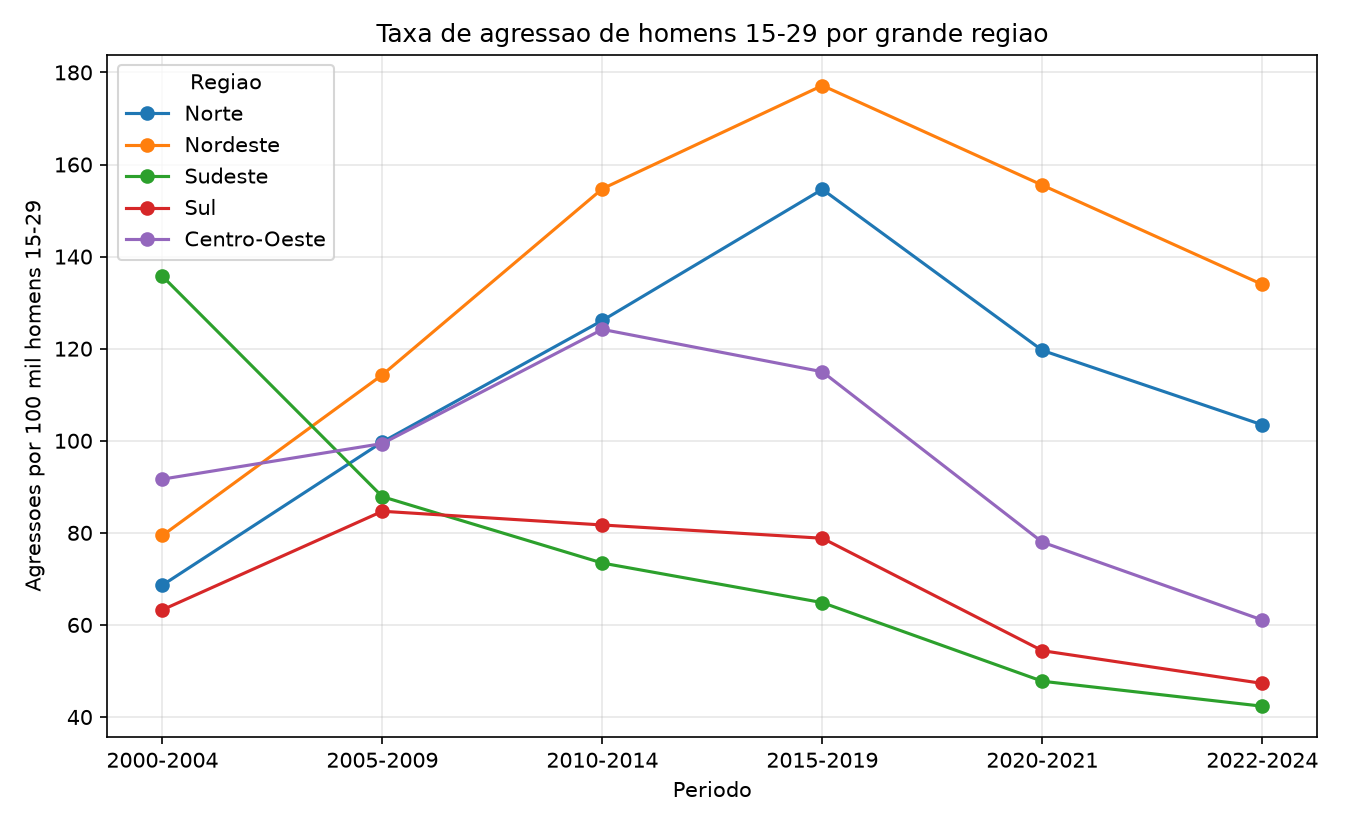
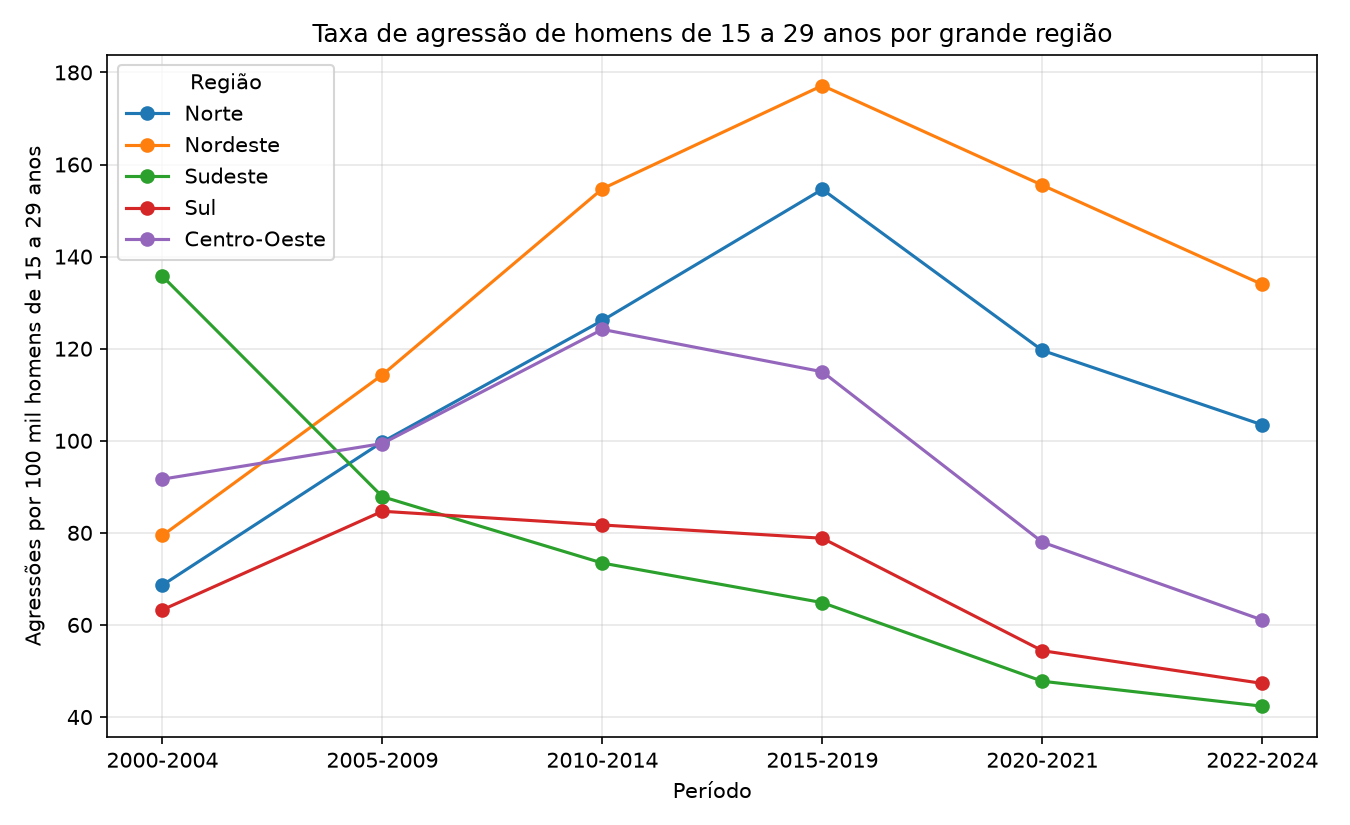
v0.3: figura-sintese, decomposicao da queda e causas mal definidas

Changed region(s): [[0.2178, 0.0303, 0.84, 0.0606], [0.0, 0.1818, 0.0311, 0.7879], [0.4978, 0.9394, 0.56, 0.9697]]

diff --git a/v03_sintese.py b/v03_sintese.py
@@ -1,0 +1,92 @@
+# -*- coding: utf-8 -*-
+import numpy as np
+import pandas as pd
+import matplotlib
+matplotlib.use("Agg")
+import matplotlib.pyplot as plt
+from matplotlib.patches import Patch
+
+h = pd.read_csv("H10_RESULTADOS_V2.csv", sep=";")
+h = h[h["fracao_indeterminada"] == 0].copy()
+periodos = list(dict.fromkeys(h["periodo"]))
+
+# ---------- figura ----------
+GR = [("Agressões e intervenção legal", ["agressoes_intervencao_legal"], "#8B0000"),
+      ("Doenças circulatórias", ["circulatorias"], "#4C78A8"),
+      ("Neoplasias", ["neoplasias"], "#F2A541"),
+      ("Doenças respiratórias", ["respiratorias"], "#72B7B2"),
+      ("Demais doenças", ["demais_doencas"], "#B79BD0"),
+      ("Transporte", ["transporte"], "#54A24B"),
+      ("COVID-19", ["covid19"], "#E377C2"),
+      ("Outras causas", ["intencao_indeterminada", "suicidio", "externas_demais", "infecciosas_sem_covid"], "#C9B458")]
+MAL = "mal_definidas_sem_causa"
+usados = {g for _, gs, _ in GR for g in gs} | {MAL}
+assert usados == set(h["grupo"]), "grupos nao cobertos"
+
+plt.rcParams.update({"font.size": 12})
+fig, axs = plt.subplots(1, 2, figsize=(15, 7), sharey=True)
+x = np.arange(len(periodos))
+rot = [p.replace(" pandemia", "\n(pandemia)") for p in periodos]
+for ax, (sx, nome) in zip(axs, [(1, "Homens"), (2, "Mulheres")]):
+    d = h[h["sexo"] == sx]
+    base = np.zeros(len(periodos))
+    for lab, gs, cor in GR:
+        v = d[d["grupo"].isin(gs)].groupby("periodo")["contribuicao"].sum().reindex(periodos).fillna(0).to_numpy()
+        ax.bar(x, v, bottom=base, color=cor, label=lab, width=0.7, edgecolor="white", linewidth=.5)
+        base += v
+    m = d[d["grupo"] == MAL].set_index("periodo")["contribuicao"].reindex(periodos).fillna(0).to_numpy()
+    ax.bar(x, m, color="#D0D0D0", hatch="///", edgecolor="#555555", width=0.7, label="Mal definidas e sem causa")
+    vo = d.groupby("periodo")["variancia_observada"].first().reindex(periodos).to_numpy()
+    ax.plot(x, vo, "o", color="black", markersize=8, linestyle="none", label="Variância observada total", zorder=5)
+    ax.axhline(0, color="black", linewidth=.8)
+    ax.set_xticks(x)
+    ax.set_xticklabels(rot, fontsize=10)
+    ax.set_xlabel("Período")
+    ax.set_title(nome, fontsize=15)
+    ax.grid(axis="y", alpha=.3)
+axs[0].set_ylabel("Contribuição para a variância territorial")
+hd, lb = axs[0].get_legend_handles_labels()
+fig.legend(hd, lb, loc="lower center", ncol=5, frameon=False, fontsize=11)
+fig.suptitle("Contribuição dos grupos de causa para a variância territorial da expectativa de vida", fontsize=15)
+fig.tight_layout(rect=(0, 0.12, 1, 0.95))
+fig.savefig("V03_FIGURA_SINTESE.png", dpi=300)
+
+# ---------- tabela queda ----------
+P0, P1, P2 = "2000-2004", "2015-2019", "2022-2024"
+w = h.pivot_table(index=["sexo", "grupo"], columns="periodo", values="contribuicao").reset_index()
+tot = h.groupby(["sexo", "periodo"])["contribuicao"].sum().unstack()
+rows = []
+for sx in (1, 2):
+    sub = w[w["sexo"] == sx].copy()
+    for alvo, col in ((P1, "pct_queda_2000_2015"), (P2, "pct_queda_2000_2022")):
+        queda_total = sub[P0].sum() - sub[alvo].sum()
+        sub[col] = (sub[P0] - sub[alvo]) / queda_total * 100
+        assert abs(sub[col].sum() - 100) <= 0.5, (sx, alvo, sub[col].sum())
+    rows.append(sub)
+t = pd.concat(rows)
+t["sexo"] = t["sexo"].map({1: "homens", 2: "mulheres"})
+t = t[["sexo", "grupo", P0, P1, P2, "pct_queda_2000_2015", "pct_queda_2000_2022"]]
+t = t.rename(columns={P0: "contrib_2000-2004", P1: "contrib_2015-2019", P2: "contrib_2022-2024"})
+t.to_csv("V03_TABELA_QUEDA.csv", sep=";", index=False, float_format="%.4f", encoding="utf-8")
+print("ASSERT OK: porcentagens da queda somam 100 (+-0,5) por sexo e intervalo")
+
+# ---------- mal definidas ----------
+mm = pd.read_csv("MUNICIPIO_MICRORREGIAO.csv", sep=";", dtype=str).drop_duplicates("municipio")
+ign = set(mm.loc[mm["municipio"].str.endswith("0000") | (mm["uf"] == "00"), "municipio"])
+uf_of = dict(zip(mm["municipio"], mm["uf"]))
+c = pd.read_csv("CAUSAS_MUNICIPIO.csv", sep=";", dtype={"municipio": str, "faixa": str})
+c = c[~(c["municipio"].str.endswith("0000") | c["municipio"].isin(ign))].copy()
+c["uf"] = c["municipio"].map(uf_of).fillna(c["municipio"].str[:2])
+c = c[c["uf"] != "00"]
+REG = {"1": "Norte", "2": "Nordeste", "3": "Sudeste", "4": "Sul", "5": "Centro-Oeste"}
+c["regiao"] = c["uf"].str[0].map(REG)
+assert c["regiao"].notna().all()
+c["md"] = c["causa"].isin(["mal_definidas", "sem_causa"])
+g = c.groupby(["periodo", "regiao"]).apply(
+    lambda d: pd.Series({"obitos_mal_definidos": d.loc[d["md"], "obitos"].sum(), "obitos_total": d["obitos"].sum()}),
+    include_groups=False).reset_index()
+g["pct_mal_definidas"] = g["obitos_mal_definidos"] / g["obitos_total"] * 100
+po = {p: i for i, p in enumerate(periodos)}
+g["_o"] = g["periodo"].map(po); g["_r"] = g["regiao"].map({v: i for i, v in enumerate(REG.values())})
+g = g.sort_values(["_o", "_r"]).drop(columns=["_o", "_r"])
+g.to_csv("V03_TABELA_MAL_DEFINIDAS.csv", sep=";", index=False, float_format="%.4f", encoding="utf-8")

diff --git a/onde_violencia.py b/onde_violencia.py
@@ -197,11 +197,11 @@ for r in REG.values():
     ax.plot(x, d["taxa_agressao_100k"], marker="o", label=r)
 ax.set_xticks(x)
 ax.set_xticklabels([p.replace(" pandemia", "") for p in periodos])
-ax.set_xlabel("Periodo")
-ax.set_ylabel("Agressoes por 100 mil homens 15-29")
-ax.set_title("Taxa de agressao de homens 15-29 por grande regiao")
+ax.set_xlabel("Período")
+ax.set_ylabel("Agressões por 100 mil homens de 15 a 29 anos")
+ax.set_title("Taxa de agressão de homens de 15 a 29 anos por grande região")
 ax.grid(alpha=.3)
-ax.legend(title="Regiao")
+ax.legend(title="Região")
 fig.tight_layout()
 fig.savefig("ONDE_FIGURA4_REGIOES_V2.png", dpi=150)
 
